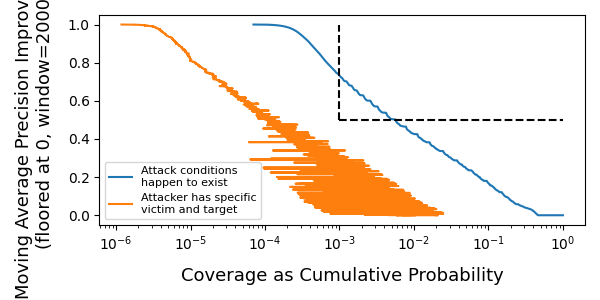
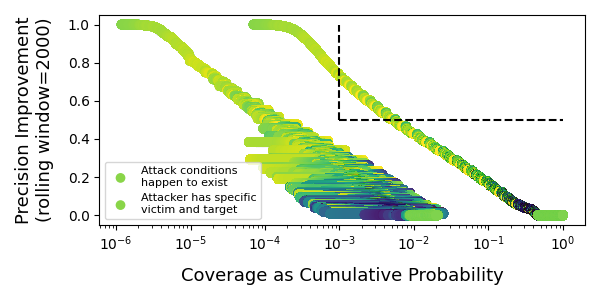
asd

diff --git a/suppress_threshold_attack.py b/suppress_threshold_attack.py
@@ -272,19 +272,22 @@ def plot_move_avg(df):
 
     # Plot the pi_fl moving average against the CDF
     plt.figure(figsize=(6, 3))
-    plt.scatter(df_sorted['cdf'], df_sorted['moving_avg_pi_fl'], c=df_sorted['moving_avg_frac_tar'], label="Attack conditions\nhappen to exist")
-    plt.scatter(df_sorted['cdf_to_capt'], df_sorted['moving_avg_pi_fl'], c=df_sorted['moving_avg_frac_tar'], label="Attacker has specific\nvictim and target")
+    scatter1 = plt.scatter(df_sorted['cdf'], df_sorted['moving_avg_pi_fl'], c=df_sorted['moving_avg_frac_tar'], label="Attack conditions\nhappen to exist", s=3)
+    scatter2 = plt.scatter(df_sorted['cdf_to_capt'], df_sorted['moving_avg_pi_fl'], c=df_sorted['moving_avg_frac_tar'], label="Attacker has specific\nvictim and target", s=3)
     #plt.plot(df_sorted['cdf'], df_sorted['moving_avg_pi_fl'], label="Attack conditions\nhappen to exist")
     #plt.plot(df_sorted['cdf_to_capt'], df_sorted['moving_avg_pi_fl'], label="Attacker has specific\nvictim and target")
     plt.hlines(0.5, 0.001, 1, colors='black', linestyles='--')
     plt.vlines(0.001, 0.5, 1.0, colors='black', linestyles='--')
     plt.legend(loc="lower left", prop={'size': 8})
+    cbar = plt.colorbar(scatter1)
+    cbar.set_label('Target Value Fraction', rotation=270, labelpad=15)
     plt.xscale('log')
     plt.xlabel('Coverage as Cumulative Probability', fontsize=13, labelpad=10)
     plt.ylabel(f'Precision Improvement\n(rolling window={win})', fontsize=13, labelpad=10)
     plt.tight_layout()
     plt.savefig(os.path.join(attack_path, 'pi_fl_mv_avg.png'))
     plt.close()
+    print("done with pi_fl_mv_avg.png")
 
     # Plot the frac_tar moving average against the CDF
     plt.figure(figsize=(10, 6))
